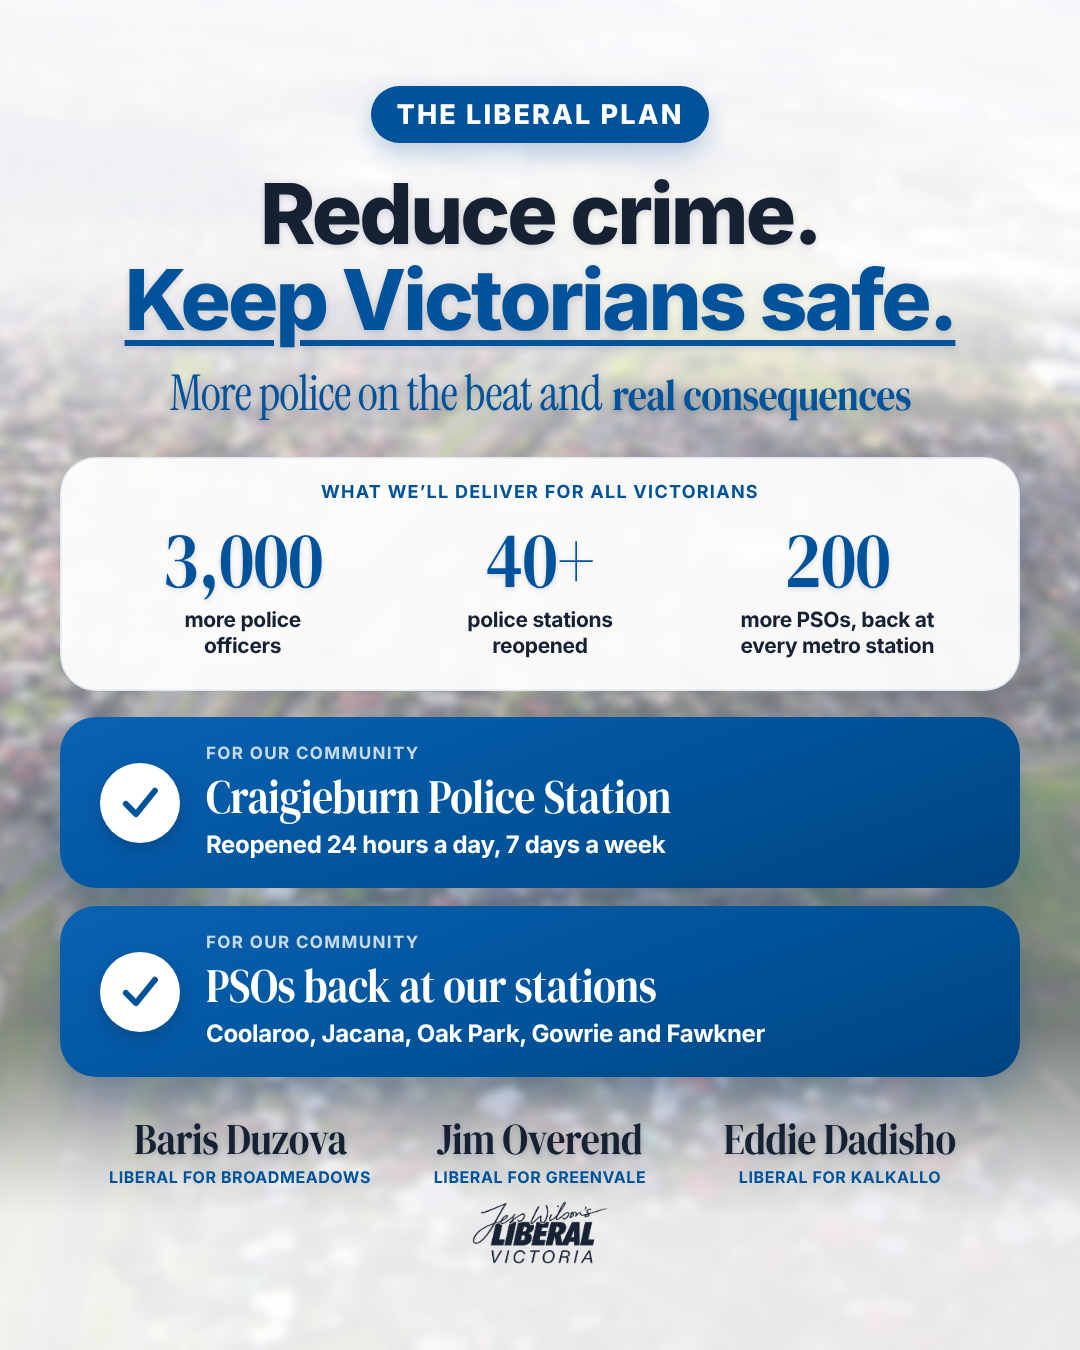
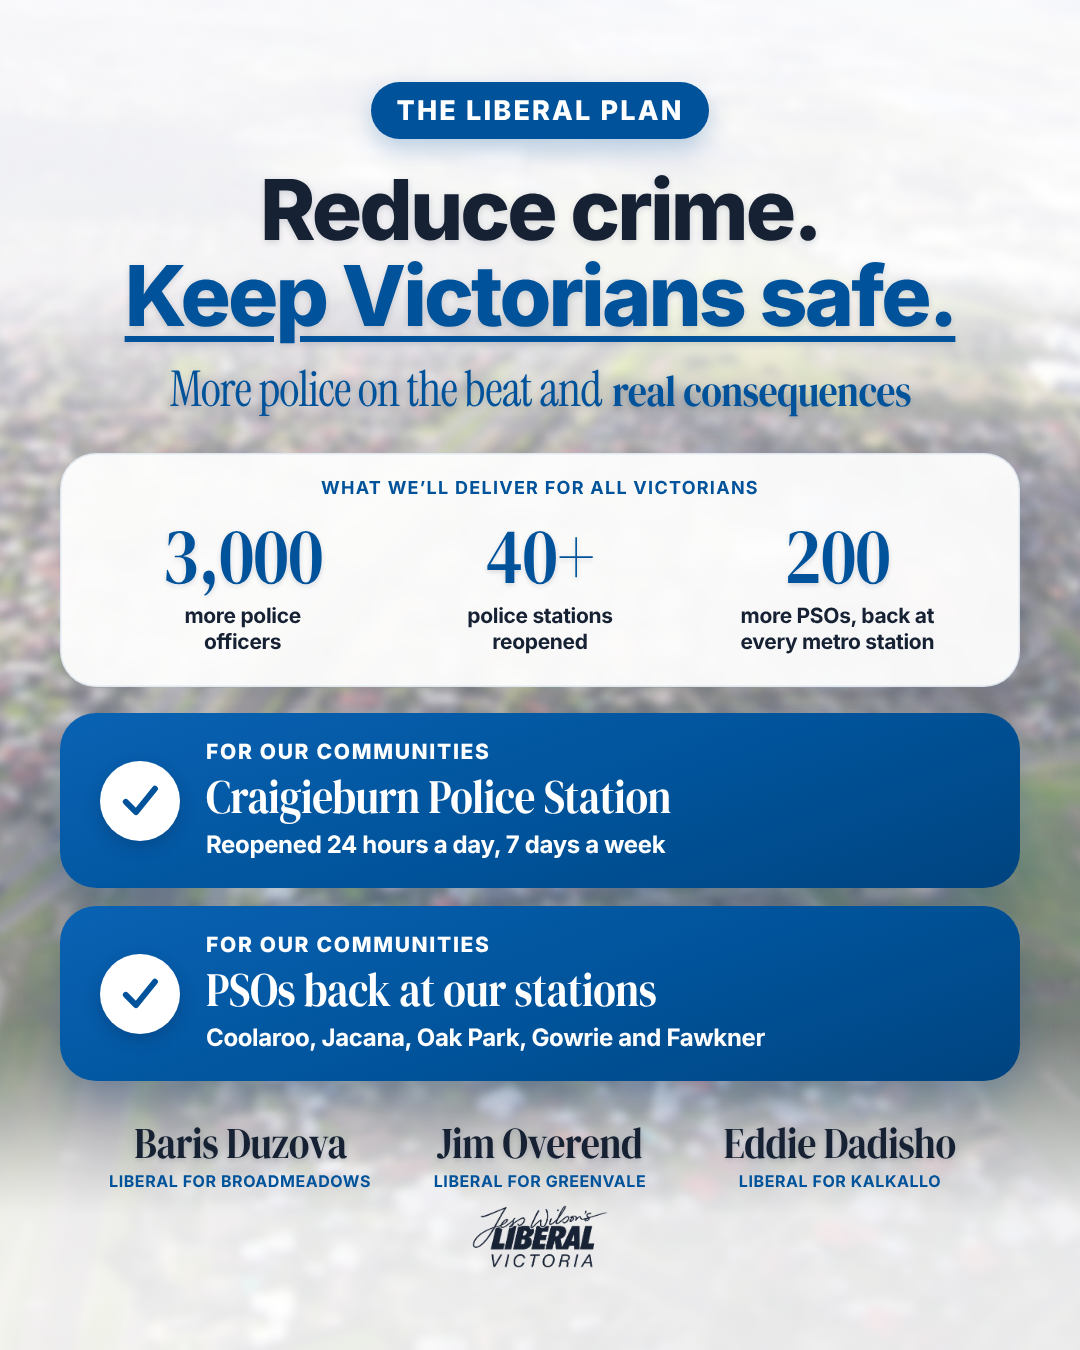
Crime slide 2: 'For our communities' labels, larger and bolder
Claude-Session: https://claude.ai/code/session_01MT6wivusBEagFnhed7SAun

diff --git a/designs/crime-north/source/crime-plan.html b/designs/crime-north/source/crime-plan.html
@@ -42,7 +42,7 @@ h1 .ul{text-decoration:underline;text-decoration-color:var(--blue);text-decorati
 .local{display:flex;gap:26px;align-items:center;padding:28px 40px;text-align:left;
   background:linear-gradient(160deg,#0a62b3 0%,#00539a 55%,#004480 100%);box-shadow:0 18px 40px rgba(0,60,120,.28)}
 .local .ic{flex:none;border-radius:50%;background:#fff;display:grid;place-items:center;box-shadow:0 6px 16px rgba(0,30,70,.25)}
-.local .lab{font-family:"Inter";font-weight:700;color:rgba(255,255,255,.78);letter-spacing:.08em;text-transform:uppercase;line-height:1}
+.local .lab{font-family:"Inter";font-weight:800;color:#fff;letter-spacing:.08em;text-transform:uppercase;line-height:1}
 .local .t{margin-top:10px;font-family:"Serif Bold";color:#fff;line-height:1;letter-spacing:-.01em;white-space:nowrap;display:inline-block;transform:scaleX(.86);transform-origin:0 50%}
 .local .s{margin-top:10px;font-family:"Inter";font-weight:700;color:#fff;letter-spacing:-.015em;line-height:1.25}
 #stats .st .l b{font-weight:800}
@@ -67,7 +67,7 @@ h1 .ul{text-decoration:underline;text-decoration-color:var(--blue);text-decorati
 <script>
 const P = Object.assign({
   // Defaults = the published layout. Override any key via ?p={"key":value} (see render.js).
-  wash:[.86,.18,.86], top:86,
+  wash:[.86,.18,.86], top:82,
   kicker:'The Liberal Plan', kickerSize:27, kickerGap:28, cardLab:'What we’ll deliver for all Victorians', labSize:18,
   head:'Reduce crime.<br><span class="acc ul">Keep Victorians safe.</span>', hSize:84,
   lead:'<span class="lt">More police on the beat and</span> <span class="bd">real consequences</span>', leadSize:44,
@@ -76,9 +76,9 @@ const P = Object.assign({
   ticks:[],                              // replaced by the local commitment cards
   tickSize:22,
   // local commitment cards: [label, title, sub]
-  locals:[['For our community','Craigieburn Police Station','Reopened 24 hours a day, 7 days a week'],
-          ['For our community','PSOs back at our stations','Coolaroo, Jacana, Oak Park, Gowrie and Fawkner']],
-  localLab:17, localTitle:48, localSub:24, localIcon:80, localGap:18,
+  locals:[['For our communities','Craigieburn Police Station','Reopened 24 hours a day, 7 days a week'],
+          ['For our communities','PSOs back at our stations','Coolaroo, Jacana, Oak Park, Gowrie and Fawkner']],
+  localLab:21, localTitle:48, localSub:24, localIcon:80, localGap:18,
   gaps:[24,36,26,40],                    // after head, lead, statcard, locals
   // candidates, ordered by electorate
   cands:[['Baris Duzova','Liberal for Broadmeadows'],['Jim Overend','Liberal for Greenvale'],['Eddie Dadisho','Liberal for Kalkallo']],

diff --git a/designs/crime-north/crime-post.md b/designs/crime-north/crime-post.md
@@ -66,8 +66,8 @@ Serif line: *More police on the beat and **real consequences***
 - **40+** police stations reopened
 - **200** more PSOs, back at every metro station
 - Local commitment cards (solid blue), replacing the tick list. Stats card heading: "What we’ll deliver for all Victorians".
-  -  **"For our community — Craigieburn Police Station, reopened 24 hours a day, 7 days a week"** (answers slide 1's "cut from 24/7 to two days a week")
-  - **"For our community — PSOs back at our stations: Coolaroo, Jacana, Oak Park, Gowrie and Fawkner"**
+  -  **"For our communities — Craigieburn Police Station, reopened 24 hours a day, 7 days a week"** (answers slide 1's "cut from 24/7 to two days a week")
+  - **"For our communities — PSOs back at our stations: Coolaroo, Jacana, Oak Park, Gowrie and Fawkner"**
     (Roxburgh Park is on slide 1's stripped list but not on this card, as supplied — check whether to add it)
 
 **Note on PSO numbers:** the policy document says 270 additional PSOs for stations plus 200 for shopping-centre strike teams. The campaign's latest summary says "200 additional PSOs … return them to every single metropolitan train station". The slide follows the latest summary. Confirm which one is current.
